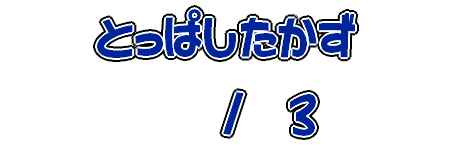
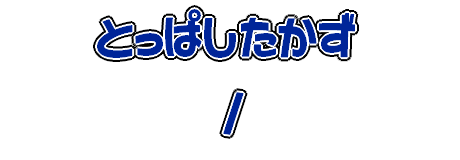
チュートリアル完成？

Changed region(s): [[0.6087, 0.5625, 0.7, 0.875]]

diff --git a/project/engine/scene/TutorialScene.cpp b/project/engine/scene/TutorialScene.cpp
@@ -2,6 +2,7 @@
 #include "CourseWall.h"
 #include "Input.h"
 
+#include "Bitmappedfont.h"
 #include "Goal.h"
 #include "LightManager.h"
 #include "MapChipField.h"
@@ -15,6 +16,7 @@
 #include "SceneManager.h"
 #include "TitleScene.h"
 #include "imgui.h"
+
 #include <numbers>
 
 // コンストラクタ
@@ -93,7 +95,7 @@ void TutorialScene::Initialize() {
 
   // マップチップフィールドの初期化
   mapChipField_ = std::make_unique<MapChipField>();
-  mapChipField_->LoadMapChipCsv("resources/mapchip.csv");
+  mapChipField_->LoadMapChipCsv("resources/stage2.csv");
 
   // マップチップの生成
   GenerateFieldObjects();
@@ -112,28 +114,28 @@ void TutorialScene::Initialize() {
   moveText_->Initialize("resources/tutorial/move.png"); // ※画像パスは要確認
   moveText_->SetAnchorPoint({0.5f, 0.0f});
   moveText_->SetSize({460.0f, 160.0f});
-  moveText_->SetPosition({640.0f, 200.0f}); // 仮の初期位置
+  moveText_->SetPosition({640.0f, 100.0f}); // 仮の初期位置
 
   // 3. clearedText_
   clearedText_ = std::make_unique<Sprite>();
   clearedText_->Initialize("resources/tutorial/cleared.png");
   clearedText_->SetAnchorPoint({0.5f, 0.0f});
   clearedText_->SetSize({460.0f, 64.0f});
-  clearedText_->SetPosition({640.0f, 200});
+  clearedText_->SetPosition({640.0f, 100.0f});
 
   // 4. destroyNumText_
   destroyNumText_ = std::make_unique<Sprite>();
   destroyNumText_->Initialize("resources/tutorial/destroyNum.png");
   destroyNumText_->SetAnchorPoint({0.5f, 0.0f});
   destroyNumText_->SetSize({460.0f, 160.0f});
-  destroyNumText_->SetPosition({640.0f, 200.0f});
+  destroyNumText_->SetPosition({640.0f, 100.0f});
 
   // 5. driftText_
   driftText_ = std::make_unique<Sprite>();
   driftText_->Initialize("resources/tutorial/drift.png");
   driftText_->SetAnchorPoint({0.5f, 0.0f});
   driftText_->SetSize({400.0f, 280.0f});
-  driftText_->SetPosition({640.0f, 200.0f});
+  driftText_->SetPosition({640.0f, 100.0f});
 
   // 6. meterImpactText_
   meterImpactText_ = std::make_unique<Sprite>();
@@ -148,21 +150,21 @@ void TutorialScene::Initialize() {
   tutorialClearedText_->Initialize("resources/tutorial/tutorialCleared.png");
   tutorialClearedText_->SetAnchorPoint({0.5f, 0.5f});
   tutorialClearedText_->SetSize({460.0f, 160.0f});
-  tutorialClearedText_->SetPosition({640.0f, 200.0f});
+  tutorialClearedText_->SetPosition({640.0f, 100.0f});
 
   // 8. stageSelectText_
   stageSelectText_ = std::make_unique<Sprite>();
   stageSelectText_->Initialize("resources/tutorial/stageSelect.png");
   stageSelectText_->SetAnchorPoint({0.5f, 0.5f});
   stageSelectText_->SetSize({460.0f, 64.0f});
-  stageSelectText_->SetPosition({640.0f, 400.0f});
+  stageSelectText_->SetPosition({640.0f, 300.0f});
 
   // 7. retryText_
   retryText_ = std::make_unique<Sprite>();
   retryText_->Initialize("resources/tutorial/retry.png");
   retryText_->SetAnchorPoint({0.5f, 0.5f});
   retryText_->SetSize({460.0f, 64.0f});
-  retryText_->SetPosition({640.0f, 480.0f});
+  retryText_->SetPosition({640.0f, 380.0f});
   retryText_->SetColor({1.0f, 1.0f, 1.0f, alpha_});
 
   // 2. backTitleText_
@@ -170,8 +172,41 @@ void TutorialScene::Initialize() {
   backTitleText_->Initialize("resources/tutorial/backTitle.png");
   backTitleText_->SetAnchorPoint({0.5f, 0.5f});
   backTitleText_->SetSize({460.0f, 64.0f});
-  backTitleText_->SetPosition({640.0f, 560.0f});
+  backTitleText_->SetPosition({640.0f, 460.0f});
   backTitleText_->SetColor({1.0f, 1.0f, 1.0f, alpha_});
+
+  for (int i = 0; i < 4; i++) {
+    // 画像パスの生成
+    std::string path = "resources/numbers/" + std::to_string(i) + ".png";
+
+    // TextureManagerでロード（2回呼んでも内部で同じ画像データが使い回されるので無駄はありません）
+    TextureManager::GetInstance()->LoadTexture(path);
+
+    // --- 1. 現在のスコア用スプライトの生成 ---
+    auto sScore = std::make_unique<Sprite>();
+    sScore->Initialize(path);
+    sScore->SetPosition({600.0f, 220.0f}); // 左側の座標
+    sScore->SetSize({64.0f, 64.0f});
+    sScore->SetAnchorPoint({0.5f, 0.5f});
+
+    numberSprites_.push_back(std::move(sScore)); // 配列1へ登録
+
+    // --- 2. 目標スコア用スプライトの生成 ---
+    auto sTarget = std::make_unique<Sprite>();
+    sTarget->Initialize(path);
+    sTarget->SetPosition({700.0f, 220.0f}); // 右側の座標
+    sTarget->SetSize({64.0f, 64.0f});
+    sTarget->SetAnchorPoint({0.5f, 0.5f});
+
+    targetNumberSprites_.push_back(std::move(sTarget)); // 配列2へ登録
+  }
+
+  // それぞれのBitmappedfontクラスに、別の配列を渡す
+  scoreDisplay_ = std::make_unique<Bitmappedfont>();
+  scoreDisplay_->Initialize(&numberSprites_, camera.get());
+
+  targetDisplay_ = std::make_unique<Bitmappedfont>();
+  targetDisplay_->Initialize(&targetNumberSprites_, camera.get());
 
   fade_ = std::make_unique<Fade>();
   fade_->Initialize(camera.get());
@@ -303,6 +338,21 @@ void TutorialScene::Update() {
     CheckAndRemove(obstacleNormal_);
     CheckAndRemove(obstacleFast_);
     CheckAndRemove(obstacleMax_);
+
+    int displayNum = std::min(destroyedObstaclesCount_, 9);
+
+    if (scoreDisplay_) {
+      scoreDisplay_->SetNumber(displayNum);
+      scoreDisplay_->Update();
+    }
+
+    // 2. 目標数 (破壊すべき数)
+    // kTargetDestroyCount_ は const int で 3 が入っています
+    int targetNum = std::min(kTargetDestroyCount_, 9);
+    if (targetDisplay_) {
+      targetDisplay_->SetNumber(targetNum);
+      targetDisplay_->Update();
+    }
 
     // 更新処理
     moveText_->Update();
@@ -605,6 +655,18 @@ void TutorialScene::Draw() {
       // 破壊目標数などの表示（必要なら）
       if (destroyNumText_)
         destroyNumText_->Draw();
+
+      if (destroyNumText_)
+        destroyNumText_->Draw();
+
+      // ▼▼▼ スコア（破壊数）の描画 ▼▼▼
+      if (scoreDisplay_) {
+        scoreDisplay_->Draw();
+      }
+
+      if (targetDisplay_) {
+        targetDisplay_->Draw();
+      }
       break;
 
     case TutorialPhase::kComplete:

diff --git a/project/engine/scene/GameScene.cpp b/project/engine/scene/GameScene.cpp
@@ -128,25 +128,37 @@ void GameScene::Initialize() {
 
     // ビットマップフォントの生成と初期化
     bitmappedFont_ = std::make_unique<Bitmappedfont>();
-    // ビットマップフォントのスプライト
+
+    // 【修正】ベクターをクリアしておく
+    bitmappedFontSprites_.clear();
+
+    // ビットマップフォントのスプライト読み込み (0～9番)
     for (int i = 0; i < 10; ++i) {
-        // ファイル名の作成
-        //std::string filePath = "Resources/number" + std::to_string(i) + ".png";
-        // 仮置き画像
-        std::string filePath = "resources/uvChecker.png";
+      // 画像ファイル名の作成 (数字に対応した画像を読み込む場合)
+      // 実在するパスに合わせて修正してください。例: "resources/number0.png"
+      // std::string filePath = "resources/number" + std::to_string(i) + ".png";
 
-        // スプライトのインスタンスを作成
-        auto sprite = std::make_unique<Sprite>();
+      std::string path = "resources/numbers/" + std::to_string(i) + ".png";
 
-        // スプライトの初期化
-        sprite->Initialize(filePath.c_str());
-        sprite->SetPosition(Vector2{ 400.0f, 100.0f });
+      // TextureManagerでロード（2回呼んでも内部で同じ画像データが使い回されるので無駄はありません）
+      TextureManager::GetInstance()->LoadTexture(path);
 
-        // 対応するインデックスの vector に追加
-        bitmappedFontSprite_[i].push_back(std::move(sprite));
+      // スプライトのインスタンスを作成
+      auto sprite = std::make_unique<Sprite>();
+
+      // スプライトの初期化
+      sprite->Initialize(path);
+
+      // ★重要: 数字を表示したい位置に設定 (画面中央など)
+      sprite->SetPosition(Vector2{640.0f, 360.0f});
+      sprite->SetAnchorPoint({0.5f, 0.5f}); // 中心基準にしておくと配置しやすい
+
+      // 【修正】単一の vector に追加していく
+      bitmappedFontSprites_.push_back(std::move(sprite));
     }
 
-    bitmappedFont_->Initialize(bitmappedFontSprite_, camera.get());
+    // 【修正】ベクターのアドレスを渡す
+    bitmappedFont_->Initialize(&bitmappedFontSprites_, camera.get());
 
     fade_ = std::make_unique<Fade>();
     fade_->Initialize(camera.get());
@@ -331,9 +343,21 @@ void GameScene::Update() {
         }
         else
         {
-            countdownTimer_--;
-            bitmappedFont_->SetNumber(countdownTimer_ / 60 + 1);
-            bitmappedFont_->Update();
+          countdownTimer_--;
+
+          // 【修正】残り時間から表示すべき数字(インデックス)を計算
+          // 180~121 -> 3, 120~61 -> 2, 60~1 -> 1 となる計算式
+          // (timer + 59) / 60 で切り上げ計算になります
+          int displayNum = (countdownTimer_ + 59) / 60;
+
+          // 0以下にならないように、また画像範囲外にならないように制御
+          if (displayNum < 0)
+            displayNum = 0;
+          if (displayNum > 9)
+            displayNum = 9;
+
+          bitmappedFont_->SetNumber(displayNum);
+          bitmappedFont_->Update();
         }
     }
 

diff --git a/project/Bitmappedfont.cpp b/project/Bitmappedfont.cpp
@@ -16,21 +16,27 @@ void Bitmappedfont::Initialize(std::vector<std::unique_ptr<Sprite>>* sprite, Cam
     sprite_ = sprite;
     camera_ = camera;
 
-    sprite_[index_].at(0)->Update();
+    //sprite_[index_].at(0)->Update();
+
+    if (!(*sprite_).empty()) {
+      (*sprite_)[0]->Update();
+    }
 }
 
 void Bitmappedfont::Update()
 {
-    if (!sprite_[index_].empty()) {
-        sprite_[index_].at(0)->Update(); // その中のスプライトを更新
-    }
+  if (sprite_ && !(*sprite_).empty() && index_ < (*sprite_).size()) {
+    // 【修正】 (*sprite_) でベクター実体へアクセスし、[index_] で要素を取得
+    (*sprite_)[index_]->Update();
+  }
 }
 
 void Bitmappedfont::Draw()  
 {  
-    if (!sprite_[index_].empty()) {
-        sprite_[index_].at(0)->Draw();
-    }
+    // ポインタの参照先のベクターが空でなく、インデックスが範囲内かチェック
+  if (sprite_ && !(*sprite_).empty() && index_ < (*sprite_).size()) {
+    (*sprite_)[index_]->Draw();
+  }
 }
 
 Bitmappedfont::~Bitmappedfont()

diff --git a/project/engine/scene/TutorialScene.h b/project/engine/scene/TutorialScene.h
@@ -17,6 +17,7 @@ class ObstacleNormal;
 class ObstacleFast;
 class ObstacleMax;
 class MapChipField;
+class Bitmappedfont;
 
 class Score;
 class Goal;
@@ -122,6 +123,16 @@ public:
   void UpdateTutorialSteps();
 
   void ResetTutorialState();
+
+  // 数字用スプライトの配列（0～9などを格納）
+  std::vector<std::unique_ptr<Sprite>> numberSprites_;
+  // 数字表示管理クラス
+  std::unique_ptr<Bitmappedfont> scoreDisplay_;
+
+  // 目標数用のスプライト配列
+  std::vector<std::unique_ptr<Sprite>> targetNumberSprites_;
+  // 目標数表示管理クラス
+  std::unique_ptr<Bitmappedfont> targetDisplay_;
 
   std::unique_ptr<Sprite> moveText_;
   std::unique_ptr<Sprite> backTitleText_;

diff --git a/project/engine/scene/GameScene.h b/project/engine/scene/GameScene.h
@@ -77,7 +77,7 @@ private:
 
     // ビットマップフォント
     std::unique_ptr<Bitmappedfont> bitmappedFont_;
-    std::vector<std::unique_ptr<Sprite>> bitmappedFontSprite_[10];
+    std::vector<std::unique_ptr<Sprite>> bitmappedFontSprites_;
 
     // ゴール
     std::vector<std::unique_ptr<Goal>> goals_;
